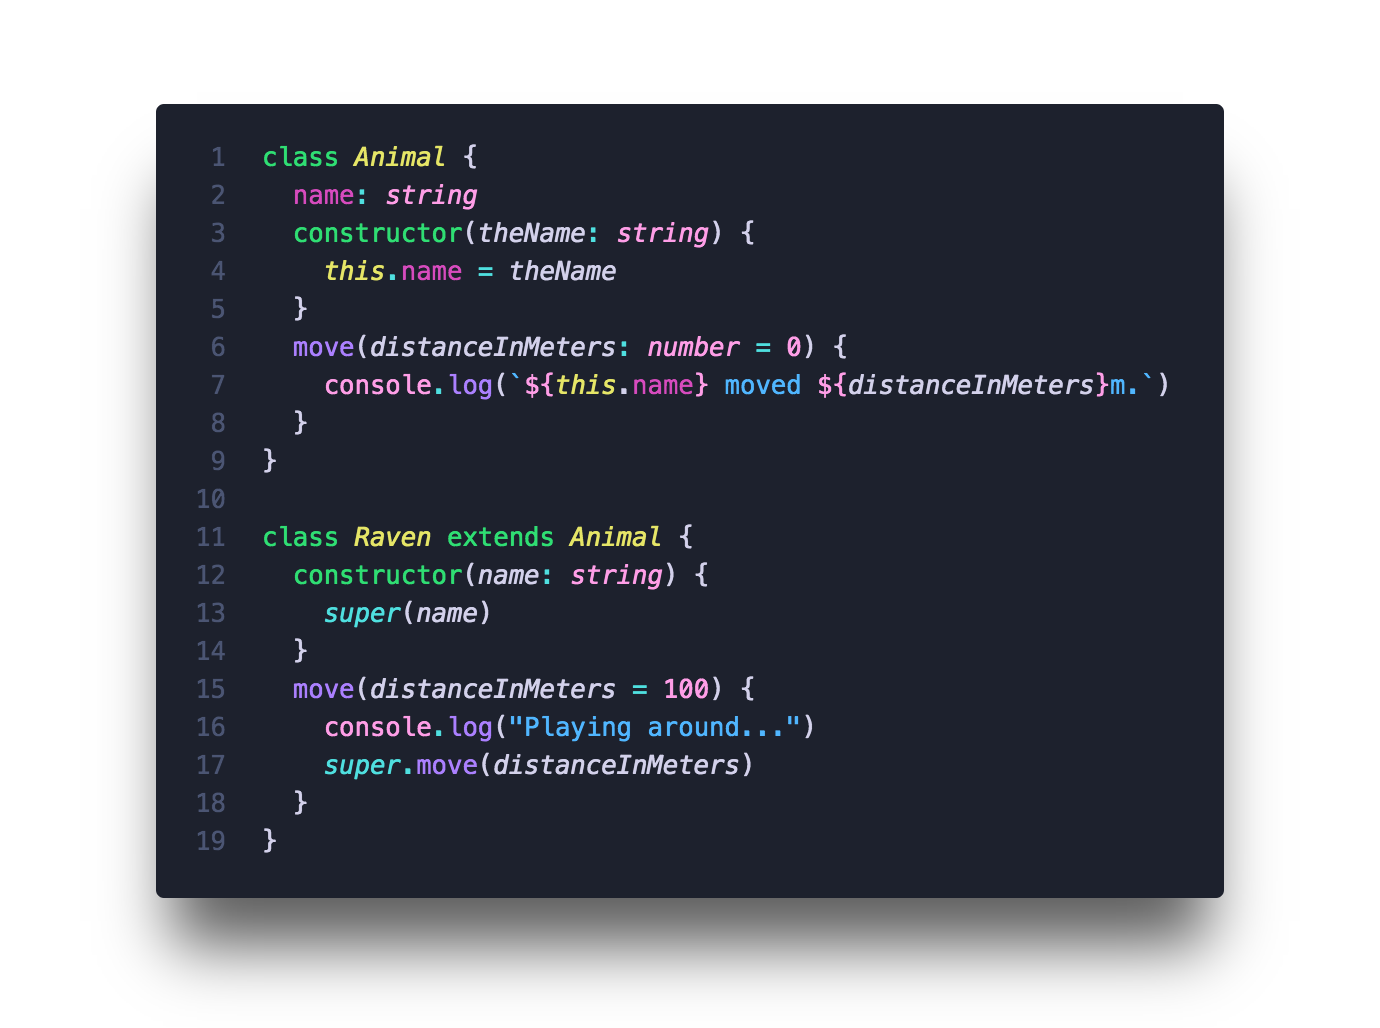
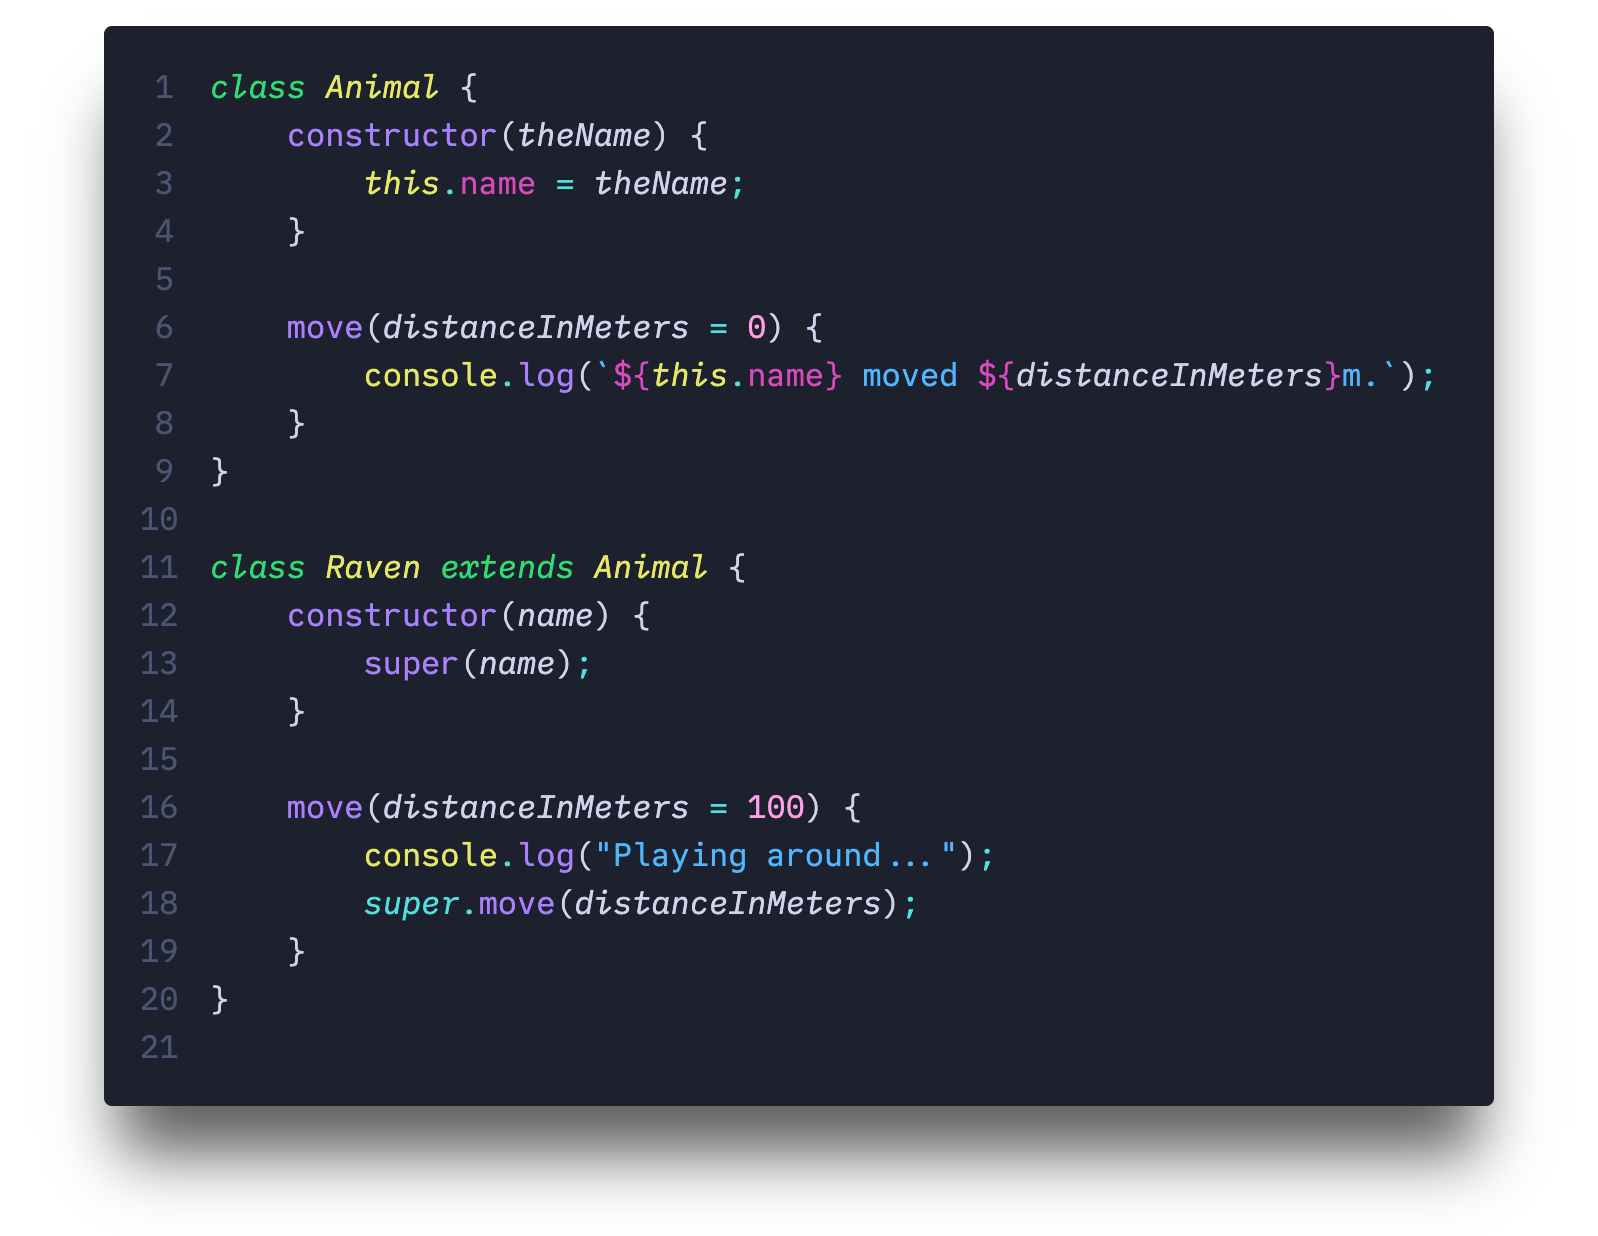
v.2.2.3
uploading README new example images

Changed region(s): [[0.0312, 0.0, 0.9659, 0.965], [0.1558, 0.7471, 0.187, 0.7782], [0.1558, 0.5603, 0.187, 0.5914]]

diff --git a/doc/_readme/files/examples_1.ts b/doc/_readme/files/examples_1.ts
@@ -1,0 +1,56 @@
+class Animal {
+	name: string;
+	constructor(theName: string) {
+		this.name = theName;
+	}
+	move(distanceInMeters: number = 0) {
+		console.log(`${this.name} moved ${distanceInMeters}m.`);
+	}
+}
+
+class Raven extends Animal {
+	constructor(name: string) {
+		super(name);
+	}
+	move(distanceInMeters = 100) {
+		console.log("Playing around...");
+		super.move(distanceInMeters);
+	}
+}
+
+/**
+ * All the keywords highlighted below are typically
+ * scoped as 'support.type.primitive'
+ */
+
+// 1. Standard Primitives
+const username: string = "Gemini";
+const age: number = 25;
+const isActive: boolean = true;
+const bigIntVal: bigint = 9007199254740991n;
+const sym: symbol = Symbol("unique");
+
+// 2. Special Utility Primitives
+let dynamicValue: any = "Could be anything";
+let cautiousValue: unknown = "I need to check this first";
+
+// 3. Functional Primitives
+function logMessage(message: string): void {
+	console.log(message);
+}
+
+function throwError(msg: string): never {
+	throw new Error(msg);
+}
+
+// 4. Type Aliases using Primitives
+type ID = string | number;
+
+// 5. The 'object' primitive (distinct from curly brace types)
+const data: object = { key: "value" };
+
+// 6. Null and Undefined
+// Note: Depending on the specific theme, these are sometimes
+// scoped as 'constant.language', but often fall under support types.
+let nothing: null = null;
+let notDefined: undefined = undefined;

diff --git a/doc/_readme/files/example_hourglass.js b/doc/_readme/files/example_hourglass.js
@@ -1,0 +1,58 @@
+import { Person } from "./for-show/person";
+
+class Employee extends Person {
+	constructor(firstName, lastName, age, likes, position) {
+		super(firstName, lastName, age, likes);
+		this.position = position;
+	}
+	getPosition() {
+		return `<p>${this.firstName} is ${this.position}.</p>`;
+	}
+}
+
+const johnDoe = new Employee("John", "Doe", 30, "Sports", "Teacher");
+
+/**
+ * @type {string} - support.type.primitive
+ */
+const name = "Gemini";
+
+/**
+ * @type {number} - support.type.primitive
+ */
+const version = 3.5;
+
+/**
+ * @type {boolean} - support.type.primitive
+ */
+const isReady = true;
+
+/**
+ * @type {bigint} - support.type.primitive
+ */
+const largeNumber = 9007199254740991n;
+
+/**
+ * @type {symbol} - support.type.primitive
+ */
+const privateKey = Symbol("id");
+
+/**
+ * @param {any} input - Often scoped as a primitive in JSDoc
+ * @returns {void} - support.type.primitive
+ */
+function processData(input) {
+	console.log(input);
+}
+
+/**
+ * @type {null}
+ */
+const emptyValue = null;
+
+/**
+ * @type {undefined}
+ */
+const notFound = undefined;
+
+console.log();

diff --git a/doc/_readme/files/example_3.js b/doc/_readme/files/example_3.js
@@ -1,0 +1,24 @@
+class Animal {
+	constructor(theName) {
+		this.name = theName;
+	}
+
+	move(distanceInMeters = 0) {
+		console.log(`${this.name} moved ${distanceInMeters}m.`);
+	}
+}
+
+class Raven extends Animal {
+	constructor(name) {
+		super(name);
+	}
+
+	move(distanceInMeters = 100) {
+		console.log("Playing around...");
+		super.move(distanceInMeters);
+	}
+}
+
+// Example Usage:
+const bird = new Raven("Edgar");
+bird.move();

diff --git a/doc/_readme/files/example_cerberus.html b/doc/_readme/files/example_cerberus.html
@@ -1,0 +1,15 @@
+<!DOCTYPE html>
+<html lang="en">
+
+<head>
+	<meta charset="UTF-8" />
+	<meta name="viewport" content="width=device-width, initial-scale=1.0" />
+	<link rel="stylesheet" href="css/styles.css" />
+	<title>Title</title>
+</head>
+
+<body>
+	<script src="js/scripts.js"></script>
+</body>
+
+</html>

diff --git a/doc/_readme/files/examples_2.py b/doc/_readme/files/examples_2.py
@@ -1,0 +1,20 @@
+class Animal:
+    def __init__(self, name: str):
+        self.name = name
+
+    def move(self, distance_in_meters: int = 0):
+        print(f"{self.name} moved {distance_in_meters}m.")
+
+class Raven(Animal):
+    def __init__(self, name: str):
+        # In Python, we call the parent constructor using super()
+        super().__init__(name)
+
+    def move(self, distance_in_meters: int = 100):
+        print("Playing around...")
+        # Accessing the parent's method logic
+        super().move(distance_in_meters)
+
+# Example Usage:
+my_raven = Raven("Nevermore")
+my_raven.move() # Output: Playing around... Nevermore moved 100m.

diff --git a/doc/_readme/files/example_4.cpp b/doc/_readme/files/example_4.cpp
@@ -1,0 +1,27 @@
+#include <iostream>
+#include <string>
+
+class Animal {
+public:
+    std::string name;
+
+    Animal(std::string theName) : name(theName) {}
+    virtual void move(int distanceInMeters = 0) {
+        std::cout << name << " moved " << distanceInMeters << "m." << std::endl;
+    }
+};
+
+class Raven : public Animal {
+public:
+    Raven(std::string name) : Animal(name) {}
+    void move(int distanceInMeters = 100) override {
+        std::cout << "Playing around..." << std::endl;
+        Animal::move(distanceInMeters);
+    }
+};
+
+int main() {
+    Raven bird("Edgar");
+    bird.move();
+    return 0;
+}

diff --git a/doc/_readme/files/example_spirograph.md b/doc/_readme/files/example_spirograph.md
@@ -1,0 +1,24 @@
+## Description
+
+Neque porro quisquam est, qui _dolorem ipsum_ quia dolor,
+consectetur, adipisci velit, sed quia non **numquam** eius
+tempora [incidunt](http://incidunt.com/ "Title")
+
+## Blockquote
+
+> Ut enim ad minima veniam, quis
+> nostrum exercitationem ullam
+> corporis suscipit laboriosam,
+
+## Code Example
+
+```python
+def my_function():
+    print("Hello from a function")
+```
+
+## Table Example
+
+| Align Left | Centered | Align Right |
+| :--------- | :------: | ----------: |
+| Left       |  Center  |       Right |
